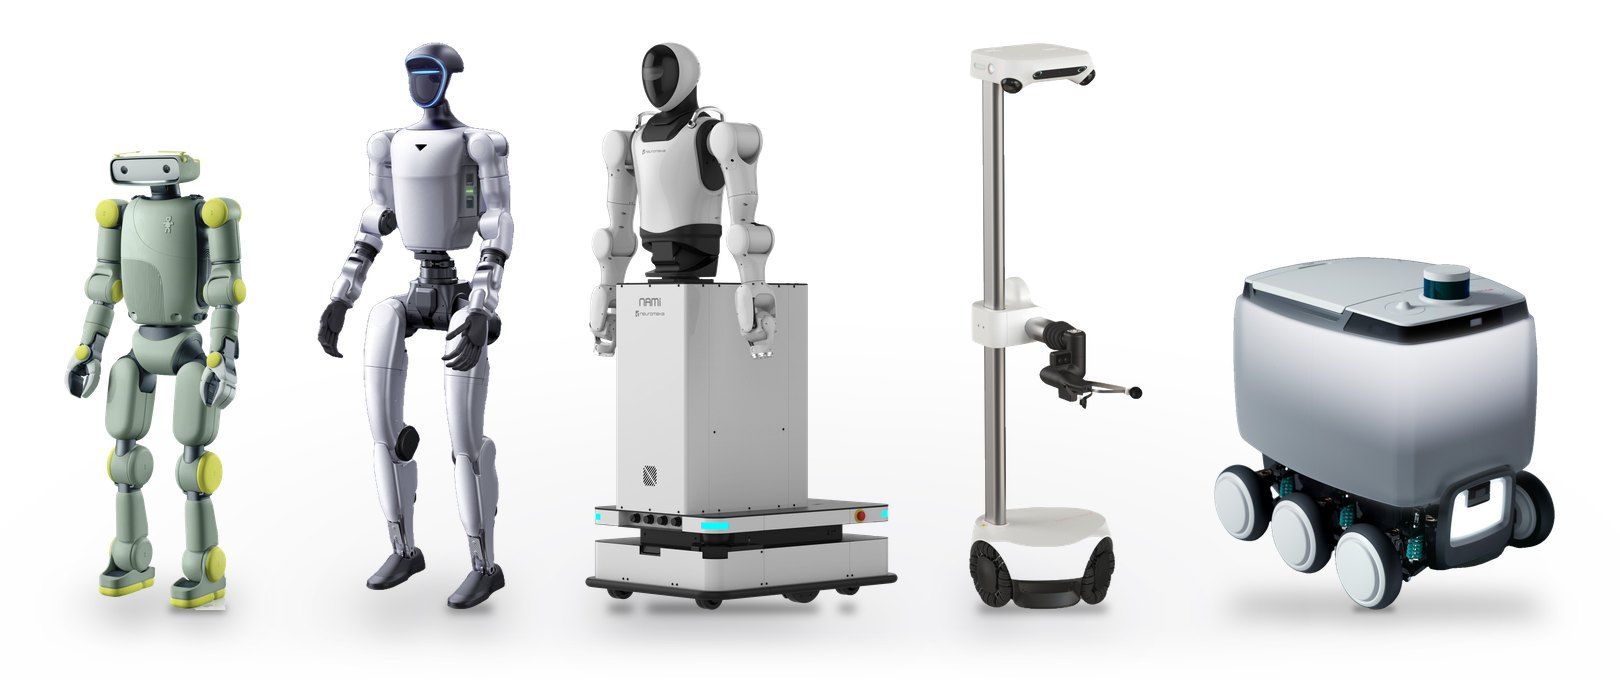
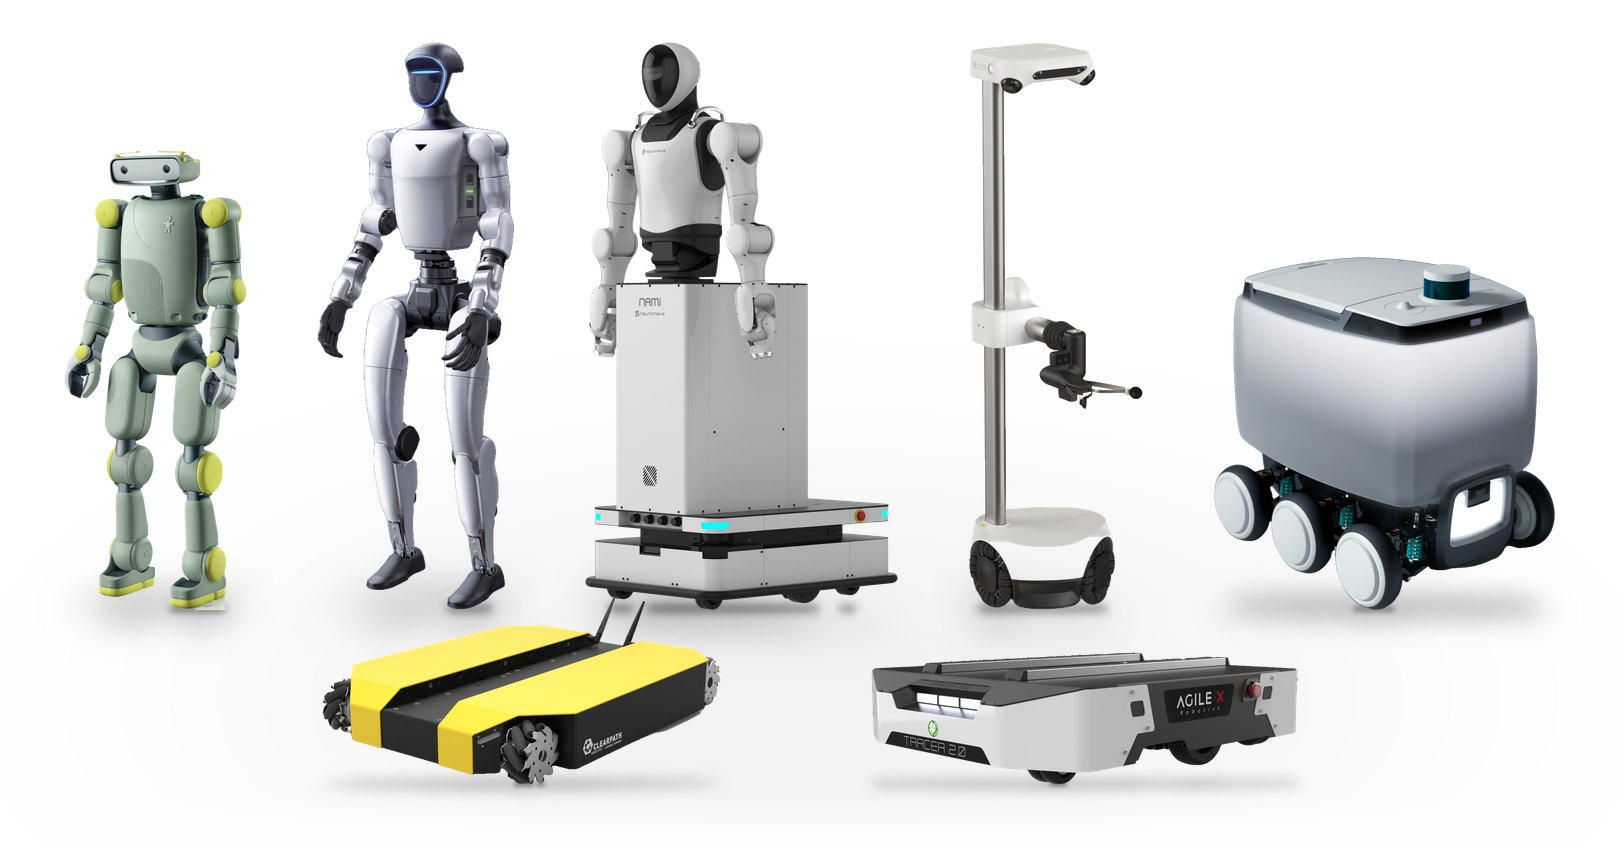
Put a Clearpath Dingo and an AgileX Tracer 2.0 in front of the lineup
The two low bases sit in a front row, lower in the frame so they hide
nobody's feet. The caption names all seven, keeps each name on one line,
and wraps evenly under the picture.

diff --git a/index.html b/index.html
@@ -8,7 +8,7 @@
     <meta name="author" content="Chan Lee">
     <meta name="viewport" content="width=device-width, initial-scale=1">
     <link rel="shortcut icon" href="images/favicon/favicon.ico?v=3" type="image/x-icon">
-    <link rel="stylesheet" type="text/css" href="stylesheet.css?v=9">
+    <link rel="stylesheet" type="text/css" href="stylesheet.css?v=10">
   </head>
 
   <body>
@@ -59,9 +59,9 @@
           <table style="width:100%;border:0px;border-spacing:0px;border-collapse:separate;margin-right:auto;margin-left:auto;"><tbody>
             <tr>
               <td class="lineup-cell" style="padding:0px 16px 8px;width:100%;vertical-align:middle">
-                <img class="lineup-img" src="images/robot-lineup.jpg?v=3" width="1620" height="680"
-                     alt="Robots I've worked with, side by side: Fauna Sprout, Unitree G1, Neuromeka NAMI, Hello Robot Stretch 4, and Baemin's Dilly Drive">
-                <p class="lineup-caption">Robots I've worked with: Fauna Sprout &middot; Unitree G1 &middot; Neuromeka NAMI &middot; Hello Robot Stretch 4 &middot; Baemin Dilly Drive</p>
+                <img class="lineup-img" src="images/robot-lineup.jpg?v=4" width="1620" height="850"
+                     alt="Robots I've worked with, gathered on one floor: Fauna Sprout, Unitree G1, Neuromeka NAMI, Hello Robot Stretch 4 and Baemin's Dilly Drive at the back, Clearpath Dingo and AgileX Tracer 2.0 in front">
+                <p class="lineup-caption">Robots I've worked with: Fauna&nbsp;Sprout &middot; Unitree&nbsp;G1 &middot; Neuromeka&nbsp;NAMI &middot; Hello&nbsp;Robot&nbsp;Stretch&nbsp;4 &middot; Baemin&nbsp;Dilly&nbsp;Drive &middot; Clearpath&nbsp;Dingo &middot; AgileX&nbsp;Tracer&nbsp;2.0</p>
               </td>
             </tr>
           </tbody></table>

diff --git a/stylesheet.css b/stylesheet.css
@@ -379,8 +379,10 @@ html {
 .lineup-caption {
   font-size: 12px;
   color: #6b7684;
-  margin: 2px 0 0;
+  max-width: 570px;
+  margin: 2px auto 0;
   text-align: center;
+  text-wrap: balance;
 }
 
 .cloud-status.error {
